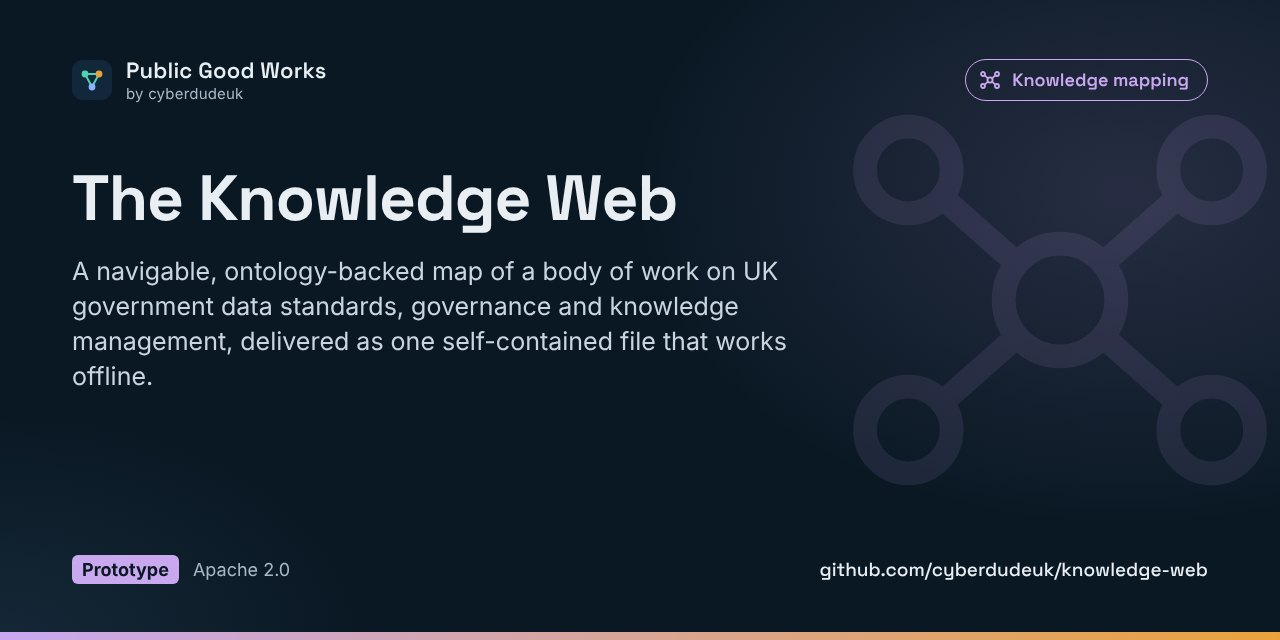
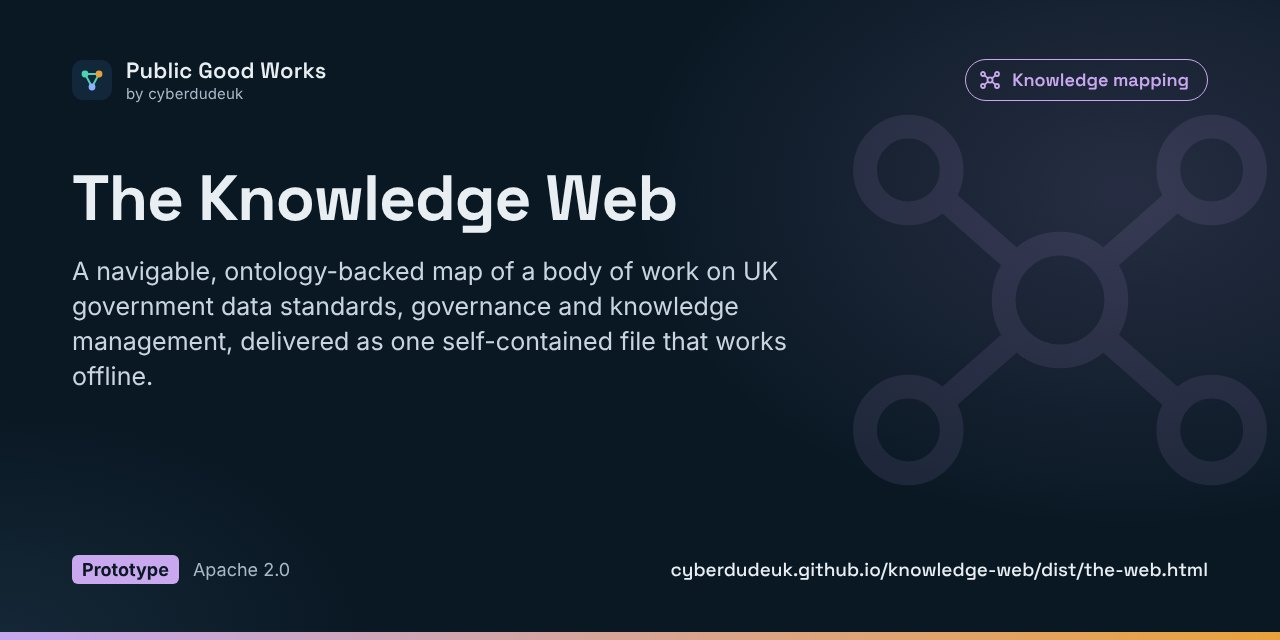
Refresh cards and README: ten live sites, NDL as an official GDS prototype
Claude-Session: https://claude.ai/code/session_012vn922m3zodYBQe2XKzDZW

Changed region(s): [[0.5312, 0.875, 0.9375, 0.9062]]

diff --git a/README.md b/README.md
@@ -4,7 +4,7 @@
 <p align="center">
 <a href="https://cyberdudeuk.github.io/"><img alt="Launchpad: Public Good Works" src="https://img.shields.io/badge/launchpad-Public_Good_Works-0b6e61?style=for-the-badge"></a>
 <a href="https://orcid.org/0009-0000-5880-7219"><img alt="ORCID iD" src="https://img.shields.io/badge/ORCID-0009--0000--5880--7219-a6ce39?style=for-the-badge&logo=orcid&logoColor=white"></a>
-<img alt="10 public projects, 8 with a live site" src="https://img.shields.io/badge/projects-10_public_·_8_live-1d70b8?style=for-the-badge">
+<img alt="10 public projects, 10 with a live site" src="https://img.shields.io/badge/projects-10_public_·_10_live-1d70b8?style=for-the-badge">
 </p>
 
 Projects from the cyberdudeuk GitHub account, most of them about data and AI in UK public services, plus some personal work. Each project is built in the open, checked automatically before it is published, and says plainly what it is and is not.
@@ -20,16 +20,16 @@ Projects from the cyberdudeuk GitHub account, most of them about data and AI in 
 |---|---|
 | **New to the topic** | [GitHub Repos Asset Catalogue](https://cyberdudeuk.github.io/github-repos-asset-catalogue/) · [AI Capability Governance and Implementation](https://cyberdudeuk.github.io/ai-capability-governance/) · [Plainspoken](https://cyberdudeuk.github.io/plainspoken/) |
 | **Doing the work day to day** | [Data Asset Management capability playbooks](https://cyberdudeuk.github.io/dam-capability-playbooks/) · [Public Sector Data Quality Commons](https://cyberdudeuk.github.io/dq-commons/) · [AI Capability Governance and Implementation](https://cyberdudeuk.github.io/ai-capability-governance/) |
-| **Building, assuring or reusing** | [DCAT-AP-UK](https://cyberdudeuk.github.io/dcat-ap-uk/) · [The Knowledge Web](https://github.com/cyberdudeuk/knowledge-web) · [NDL PubSec MCP](https://cyberdudeuk.github.io/ndl-pubsec-mcp/) |
+| **Building, assuring or reusing** | [DCAT-AP-UK](https://cyberdudeuk.github.io/dcat-ap-uk/) · [The Knowledge Web](https://cyberdudeuk.github.io/knowledge-web/dist/the-web.html) · [NDL PubSec MCP](https://cyberdudeuk.github.io/ndl-pubsec-mcp/) |
 
 ## Projects
 
 <table>
 <tr><td width="50%" valign="top"><a href="https://cyberdudeuk.github.io/ai-capability-governance/"><img src="assets/previews/ai-capability-governance.jpg" alt="AI Capability Governance and Implementation: Guidance you can act on for governing AI and AI agents in public services: a six-level human review model, evidence and transparency record generators, an agent registry pattern and a weekly signals scan." width="100%"></a><br><sub><a href="https://github.com/cyberdudeuk/ai-capability-governance">Repository</a> · Prototype · MIT code, OGL v3.0 content</sub></td><td width="50%" valign="top"><a href="https://cyberdudeuk.github.io/dcat-ap-uk/"><img src="assets/previews/dcat-ap-uk.jpg" alt="DCAT-AP-UK: A proposed application profile for describing UK public sector datasets and data services, so they can be found, judged and shared across every catalogue." width="100%"></a><br><sub><a href="https://github.com/cyberdudeuk/dcat-ap-uk">Repository</a> · Proposed, not endorsed · MIT code, OGL v3.0 content</sub></td></tr>
 <tr><td width="50%" valign="top"><a href="https://cyberdudeuk.github.io/dam-capability-playbooks/"><img src="assets/previews/dam-capability-playbooks.jpg" alt="Data Asset Management capability playbooks: Step-by-step guidance on data governance, data cataloguing and data quality for critical data assets in UK government, built around the data asset management policy." width="100%"></a><br><sub><a href="https://github.com/cyberdudeuk/dam-capability-playbooks">Repository</a> · Prototype · MIT code, OGL v3.0 content</sub></td><td width="50%" valign="top"><a href="https://cyberdudeuk.github.io/dq-commons/"><img src="assets/previews/dq-commons.jpg" alt="Public Sector Data Quality Commons: A free, open hub and toolkit for data quality in the public sector: check data, find the frameworks and standards that apply, learn, use AI safely and share what works." width="100%"></a><br><sub><a href="https://github.com/cyberdudeuk/dq-commons">Repository</a> · Prototype · MIT code, OGL v3.0 content</sub></td></tr>
-<tr><td width="50%" valign="top"><a href="https://cyberdudeuk.github.io/github-repos-asset-catalogue/"><img src="assets/previews/github-repos-asset-catalogue.jpg" alt="GitHub Repos Asset Catalogue: Before you build it, look for it." width="100%"></a><br><sub><a href="https://github.com/cyberdudeuk/github-repos-asset-catalogue">Repository</a> · Working tool · MIT</sub></td><td width="50%" valign="top"><a href="https://github.com/cyberdudeuk/knowledge-web"><img src="assets/previews/knowledge-web.jpg" alt="The Knowledge Web: A navigable, ontology-backed map of a body of work on UK government data standards, governance and knowledge management, delivered as one self-contained file that works offline." width="100%"></a><br><sub><a href="https://github.com/cyberdudeuk/knowledge-web">Repository</a> · Prototype · Apache 2.0</sub></td></tr>
+<tr><td width="50%" valign="top"><a href="https://cyberdudeuk.github.io/github-repos-asset-catalogue/"><img src="assets/previews/github-repos-asset-catalogue.jpg" alt="GitHub Repos Asset Catalogue: Before you build it, look for it." width="100%"></a><br><sub><a href="https://github.com/cyberdudeuk/github-repos-asset-catalogue">Repository</a> · Working tool · MIT</sub></td><td width="50%" valign="top"><a href="https://cyberdudeuk.github.io/knowledge-web/dist/the-web.html"><img src="assets/previews/knowledge-web.jpg" alt="The Knowledge Web: A navigable, ontology-backed map of a body of work on UK government data standards, governance and knowledge management, delivered as one self-contained file that works offline." width="100%"></a><br><sub><a href="https://github.com/cyberdudeuk/knowledge-web">Repository</a> · Prototype · Apache 2.0</sub></td></tr>
 <tr><td width="50%" valign="top"><a href="https://cyberdudeuk.github.io/plainspoken/"><img src="assets/previews/plainspoken.jpg" alt="Plainspoken: A phone-first speaking coach for anyone who speaks at work, with situations drawn from public sector settings: a daily 20-minute routine, event preparation, speak-and-score, role-play and a live cue card." width="100%"></a><br><sub><a href="https://github.com/cyberdudeuk/plainspoken">Repository</a> · Personal project · PolyForm Noncommercial 1.0.0 code (see repository for content)</sub></td><td width="50%" valign="top"><a href="https://cyberdudeuk.github.io/black-mixed-heritage/"><img src="assets/previews/black-mixed-heritage.jpg" alt="Black History and Heritage Hub: A year-round hub celebrating Black and Black-Mixed history, heritage and cultures, Africa and the African diaspora." width="100%"></a><br><sub><a href="https://github.com/cyberdudeuk/black-mixed-heritage">Repository</a> · Personal project, unofficial (name provisional) · MIT code, CC BY 4.0 content</sub></td></tr>
-<tr><td width="50%" valign="top"><a href="https://cyberdudeuk.github.io/ndl-pubsec-mcp/"><img src="assets/previews/ndl-pubsec-mcp.jpg" alt="NDL PubSec MCP: An open-source Model Context Protocol server that lets any MCP-capable AI assistant find UK public sector data and check its metadata against the UK Cross-Government Metadata Exchange Model (xGov MEM)." width="100%"></a><br><sub><a href="https://github.com/cyberdudeuk/ndl-pubsec-mcp">Repository</a> · Prototype: alpha, official GDS work · MIT code, OGL v3.0 documentation</sub></td><td width="50%" valign="top"><a href="https://github.com/cyberdudeuk/uk-youth-parliament-amplify"><img src="assets/previews/uk-youth-parliament-amplify.jpg" alt="UK Youth Parliament: Amplify portal: A youth voice portal: young people's issues, a local routes map, and a dated snapshot of a UK Parliament petition." width="100%"></a><br><sub><a href="https://github.com/cyberdudeuk/uk-youth-parliament-amplify">Repository</a> · Prototype: in its repository, no public site yet · MIT code, OGL v3.0 content</sub></td></tr>
+<tr><td width="50%" valign="top"><a href="https://cyberdudeuk.github.io/ndl-pubsec-mcp/"><img src="assets/previews/ndl-pubsec-mcp.jpg" alt="NDL PubSec MCP: An open-source Model Context Protocol server that lets any MCP-capable AI assistant find UK public sector data and check its metadata against the UK Cross-Government Metadata Exchange Model (xGov MEM)." width="100%"></a><br><sub><a href="https://github.com/cyberdudeuk/ndl-pubsec-mcp">Repository</a> · Prototype: alpha, official GDS work · MIT code, OGL v3.0 documentation</sub></td><td width="50%" valign="top"><a href="https://cyberdudeuk.github.io/uk-youth-parliament-amplify/"><img src="assets/previews/uk-youth-parliament-amplify.jpg" alt="UK Youth Parliament: Amplify portal: A youth voice portal: young people's issues, a local routes map, and a dated snapshot of a UK Parliament petition." width="100%"></a><br><sub><a href="https://github.com/cyberdudeuk/uk-youth-parliament-amplify">Repository</a> · Prototype · MIT code, OGL v3.0 content</sub></td></tr>
 </table>
 
 ## How every project is built
@@ -59,4 +59,4 @@ Projects from the cyberdudeuk GitHub account, most of them about data and AI in 
 
 <p align="center"><a href="https://cyberdudeuk.github.io/"><img src="assets/qr.svg" alt="QR code for https://cyberdudeuk.github.io/" width="96"></a>
 &nbsp;&nbsp;<img src="assets/barcode.svg" alt="Barcode encoding https://cyberdudeuk.github.io/" height="72"><br>
-<sub>Public Good Works · https://cyberdudeuk.github.io/ · register v1.3.2, updated 2026-11-15</sub></p>
+<sub>Public Good Works · https://cyberdudeuk.github.io/ · register v1.3.3, updated 2026-11-15</sub></p>
